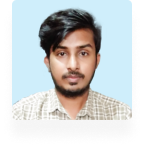
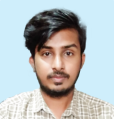
delete some comments and add carrot in 3rd and six image

diff --git a/index.html b/index.html
@@ -637,6 +637,15 @@
                             <div class="swiper-slide">
                                 <img src="./images/state/state1.png" class="w-full rounded-md" alt="">
                             </div>
+                            <div class="swiper-slide">
+                                <img src="./images/state/state2.png" class="w-full rounded-md" alt="">
+                            </div>
+                            <div class="swiper-slide">
+                                <img src="./images/state/state1.png" class="w-full rounded-md" alt="">
+                            </div>
+                            <div class="swiper-slide">
+                                <img src="./images/state/state2.png" class="w-full rounded-md" alt="">
+                            </div>
                         </div>
 
                         <div class="flex flex-wrap justify-between my-4 ms-2 sm:ms-4 gap-3 sm:gap-4">
@@ -696,7 +705,9 @@
 
                 <div class="grid grid-cols-1 sm:grid-cols-2 md:grid-cols-3 gap-x-6 gap-y-12">
                     <div class="grid-bg">
-                        <img src="./images/profile/image 99.png" class="w-3/5 lg:w-1/2" alt="">
+                        <div class="grid-bg-img w-3/5 lg:w-1/2 mx-4">
+                            <img src="./images/profile/image 99.png" class="w-full" alt="">
+                        </div>
                         <div class="px-4">
                             <div class="header-font text-lg !text-primary mb-2">
                                 By: Sahabuddin Sagor
@@ -712,7 +723,9 @@
                     </div>
 
                     <div class="grid-bg">
-                        <img src="./images/profile/image 98.png" class="w-3/5 lg:w-1/2" alt="">
+                        <div class="grid-bg-img w-3/5 lg:w-1/2 mx-4">
+                            <img src="./images/profile/image 98.png" class="w-full" alt="">
+                        </div>
                         <div class="px-4">
                             <div class="header-font text-lg !text-primary mb-2">
                                 By: Nayem Khan
@@ -728,7 +741,9 @@
                     </div>
 
                     <div class="grid-bg">
-                        <img src="./images/profile/image 99.png" class="w-3/5 lg:w-1/2" alt="">
+                        <div class="grid-bg-img w-3/5 lg:w-1/2 mx-4">
+                            <img src="./images/profile/image 99.png" class="w-full" alt="">
+                        </div>
                         <div class="px-4">
                             <div class="header-font text-lg !text-primary mb-2">
                                 By: Sahabuddin Sagor
@@ -744,7 +759,9 @@
                     </div>
 
                     <div class="grid-bg">
-                        <img src="./images/profile/image 98.png" class="w-3/5 lg:w-1/2" alt="">
+                        <div class="grid-bg-img w-3/5 lg:w-1/2 mx-4">
+                            <img src="./images/profile/image 98.png" class="w-full" alt="">
+                        </div>
                         <div class="px-4">
                             <div class="header-font text-lg !text-primary mb-2">
                                 By: Nayem Khan
@@ -760,7 +777,9 @@
                     </div>
 
                     <div class="grid-bg">
-                        <img src="./images/profile/image 99.png" class="w-3/5 lg:w-1/2" alt="">
+                        <div class="grid-bg-img w-3/5 lg:w-1/2 mx-4">
+                            <img src="./images/profile/image 99.png" class="w-full" alt="">
+                        </div>
                         <div class="px-4">
                             <div class="header-font text-lg !text-primary mb-2">
                                 By: Sahabuddin Sagor
@@ -776,7 +795,9 @@
                     </div>
 
                     <div class="grid-bg">
-                        <img src="./images/profile/image 98.png" class="w-3/5 lg:w-1/2" alt="">
+                        <div class="grid-bg-img w-3/5 lg:w-1/2 mx-4">
+                            <img src="./images/profile/image 98.png" class="w-full" alt="">
+                        </div>
                         <div class="px-4">
                             <div class="header-font text-lg !text-primary mb-2">
                                 By: Nayem Khan

diff --git a/scss/style.scss b/scss/style.scss
@@ -537,9 +537,36 @@ $table: (background-color: rgba(white, .75),
 
         }
 
+        &-img {
+            margin-bottom: 10px;
+            position: relative;
+        }
+
+        &-img img {
+            border-radius: 6px;
+        }
+
+        &:nth-child(3) .grid-bg-img::before,
+        &:nth-child(6) .grid-bg-img::before {
+            width: 25%;
+            height: 8%;
+            padding: 8px;
+            content: "";
+            background-image: url("./content-img/image100.png");
+            background-repeat: no-repeat;
+            background-size: 70%;
+            background-position: center;
+            background-color: white;
+            border-start-start-radius: 4px;
+            position: absolute;
+            left: 0;
+            top: 0;
+
+        }
+
         @include lt-sm {
-            & img {
-                margin: auto;
+            &-img {
+                margin-inline: auto;
             }
 
             &>div {

diff --git a/dict/css/style.css b/dict/css/style.css
@@ -379,9 +379,31 @@ body {
   transform: translateY(0%);
   border-radius: 8px;
 }
+.grid-img-section .grid-bg-img {
+  margin-bottom: 10px;
+  position: relative;
+}
+.grid-img-section .grid-bg-img img {
+  border-radius: 6px;
+}
+.grid-img-section .grid-bg:nth-child(3) .grid-bg-img::before, .grid-img-section .grid-bg:nth-child(6) .grid-bg-img::before {
+  width: 25%;
+  height: 8%;
+  padding: 8px;
+  content: "";
+  background-image: url("./content-img/image100.png");
+  background-repeat: no-repeat;
+  background-size: 70%;
+  background-position: center;
+  background-color: white;
+  border-start-start-radius: 4px;
+  position: absolute;
+  left: 0;
+  top: 0;
+}
 @media screen and (max-width: 639px) {
-  .grid-img-section .grid-bg img {
-    margin: auto;
+  .grid-img-section .grid-bg-img {
+    margin-inline: auto;
   }
   .grid-img-section .grid-bg > div {
     text-align: center;

diff --git a/script.js b/script.js
@@ -174,10 +174,10 @@ document.addEventListener('DOMContentLoaded', () => {
 
 function generateWeightedRandom() {
     const random = Math.random();
-    if (random < 0.98) { // 80% chance
-        return Math.floor(Math.random() * 60) + 1; // 1 to 50
+    if (random < 0.98) {
+        return Math.floor(Math.random() * 60) + 1;
     } else {
-        return Math.floor(Math.random() * 40) + 60; // 51 to 100
+        return Math.floor(Math.random() * 40) + 60;
     }
 }
 
@@ -213,13 +213,6 @@ var options = {
         },
         toolbar: {
             show: false
-        },
-        events: {
-            dataPointMouseEnter: function (event) {
-                console.log('hi');
-                console.log(event.path[0]);
-                event.path[0].style.cursor = "pointer";
-            }
         }
     },
     series: seriesData,
